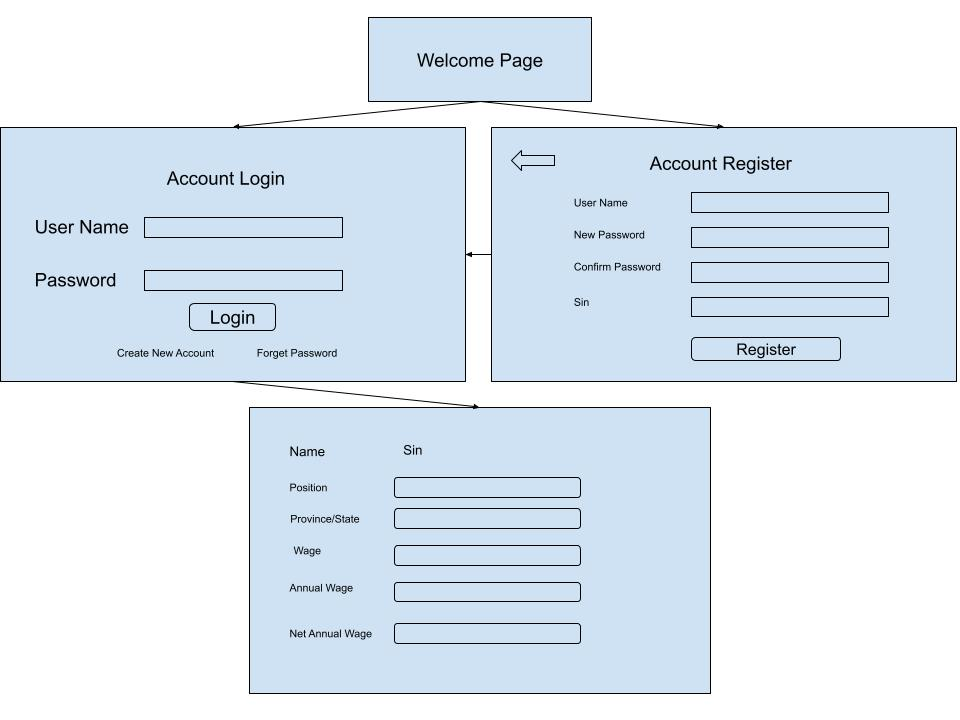
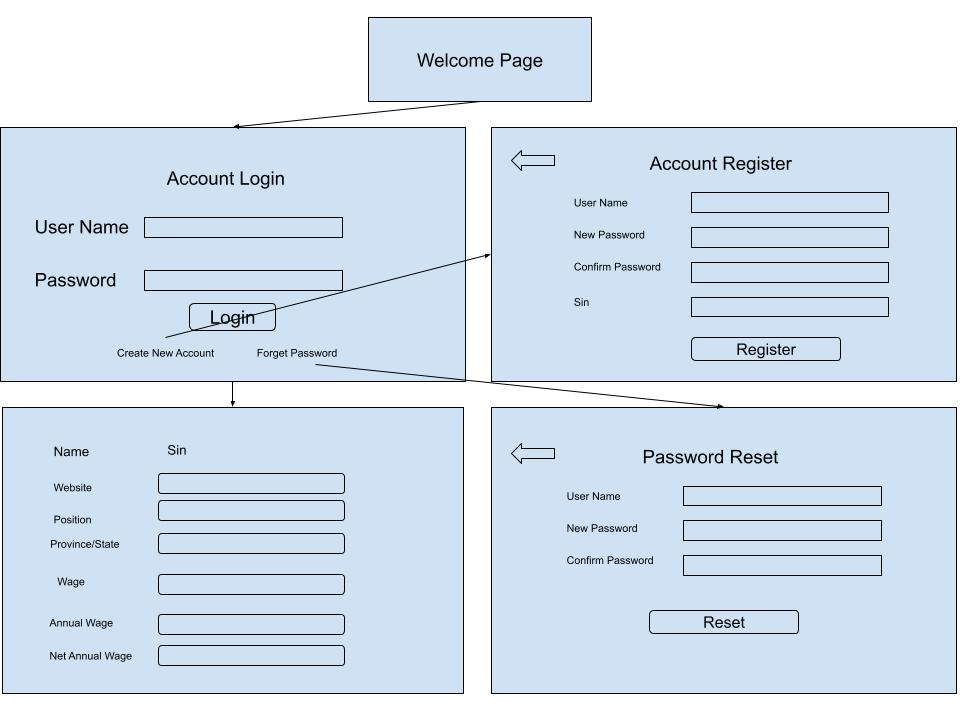
Created Login page

diff --git a/app/src/main/java/pengyuw007/wagemate/presentation/LoginActivity.java b/app/src/main/java/pengyuw007/wagemate/presentation/LoginActivity.java
@@ -2,14 +2,16 @@ package pengyuw007.wagemate.presentation;
 
 import android.app.Activity;
 import android.os.Bundle;
+import android.view.View;
 
+import androidx.appcompat.app.AppCompatActivity;
 import androidx.core.graphics.Insets;
 import androidx.core.view.ViewCompat;
 import androidx.core.view.WindowInsetsCompat;
 
 import pengyuw007.wagemate.R;
 
-public class LoginActivity extends Activity {
+public class LoginActivity extends AppCompatActivity implements View.OnClickListener{
     @Override
     protected void onCreate(Bundle savedInstanceState) {
         super.onCreate(savedInstanceState);
@@ -19,5 +21,11 @@ public class LoginActivity extends Activity {
             v.setPadding(systemBars.left, systemBars.top, systemBars.right, systemBars.bottom);
             return insets;
         });
+
+    }
+
+    @Override
+    public void onClick(View v) {
+
     }
 }

diff --git a/log.md b/log.md
@@ -1,0 +1,17 @@
+** Log of Development
+
+*** 2024. 11. 27
+** Completed
+1. Created Welcome page
+2. Added feature of cutscene
+
+*** 2024. 11. 29
+** Completed
+1. Created Login page
+2. Login tile
+3. user name and password both created
+4. Login button created
+
+** Undone
+1. Create a new account 
+2. Forget password
